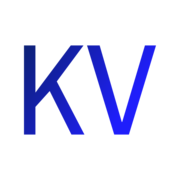
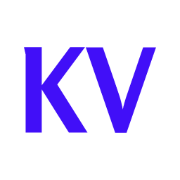
many minor changes
* new KV logo
* navbar texts change

Changed region(s): [[0.1111, 0.25, 0.8889, 0.75]]

diff --git a/src/components/Footer.js b/src/components/Footer.js
@@ -13,7 +13,7 @@ const Footer = class extends React.Component {
         <div className="content has-text-centered">
           <img
             src={logo}
-            alt="Kaldi"
+            alt="KV logo"
             style={{ width: "14em", height: "10em" }}
           />
         </div>
@@ -30,7 +30,7 @@ const Footer = class extends React.Component {
                     </li>
                     <li>
                       <Link className="navbar-item" to="/about">
-                        Doctor
+                        About
                       </Link>
                     </li>
                     {/* <li>
@@ -55,8 +55,8 @@ const Footer = class extends React.Component {
                 <section>
                   <ul className="menu-list">
                     <li>
-                      <Link className="navbar-item" to="/specialities">
-                        Specialities
+                      <Link className="navbar-item" to="/skills">
+                        Skills
                       </Link>
                     </li>
                     <li>

diff --git a/src/components/Navbar.js b/src/components/Navbar.js
@@ -42,7 +42,7 @@ const Navbar = class extends React.Component {
         <div className="container">
           <div className="navbar-brand">
             <Link to="/" className="navbar-item" title="Logo">
-              <img src={logo} alt="KV" style={{ width: "88px" }} />
+              <img src={logo} alt="KV logo" style={{ width: "88px" }} />
             </Link>
             {/* Hamburger menu */}
             <div
@@ -61,10 +61,10 @@ const Navbar = class extends React.Component {
           >
             <div className="navbar-start has-text-centered">
               <Link className="navbar-item" to="/about">
-                Doctor
+                About
               </Link>
-              <Link className="navbar-item" to="/specialities">
-                Specialities
+              <Link className="navbar-item" to="/skills">
+                Skills
               </Link>
               {/* <Link className="navbar-item" to="/products">
                 Products

diff --git a/src/components/HospitalsRoll.tsx b/src/components/HospitalsRoll.tsx
@@ -40,13 +40,13 @@ function HospitalsRoll() {
             <div className={`blog-list-item tile is-child box notification`}>
               <img
                 src={"/img/business-black-18dp.svg"}
-                alt="KV"
+                alt={`hospital name: ${title}`}
                 style={{ width: "18px" }}
               />
               <p className="has-text-weight-bold">{title}</p>
               <img
                 src={"/img/place-black-18dp.svg"}
-                alt="KV"
+                alt={`address: ${address}`}
                 style={{ width: "18px" }}
               />
               <p>{address}</p>

diff --git a/src/templates/index-page.js b/src/templates/index-page.js
@@ -103,9 +103,7 @@ export const IndexPageTemplate = ({
                   </div>
                 </div> */}
                 <div className="column is-12">
-                  <h3 className="has-text-weight-semibold is-size-2">
-                    Our specialities
-                  </h3>
+                  <h3 className="has-text-weight-semibold is-size-2">Skills</h3>
                   <SpecialitiesRoll />
                   {/* <div className="column is-12 has-text-centered">
                     <Link className="btn" to="/specialities">

diff --git a/src/templates/skill.js b/src/templates/skill.js
@@ -64,7 +64,7 @@ const BlogPost = ({ data }) => {
         contentComponent={HTMLContent}
         description={post.frontmatter.description}
         helmet={
-          <Helmet titleTemplate="%s | Speciality">
+          <Helmet titleTemplate="%s | Skill">
             <title>{`${post.frontmatter.title}`}</title>
             <meta
               name="description"

diff --git a/src/components/SpecialitiesRoll.tsx b/src/components/SpecialitiesRoll.tsx
@@ -86,7 +86,7 @@ export default () => (
       query SpecialitiesRollQuery {
         allMarkdownRemark(
           sort: { order: ASC, fields: [frontmatter___order] }
-          filter: { frontmatter: { templateKey: { eq: "speciality" } } }
+          filter: { frontmatter: { templateKey: { eq: "skill" } } }
         ) {
           edges {
             node {

diff --git a/src/components/Layout.js b/src/components/Layout.js
@@ -14,7 +14,7 @@ const TemplateWrapper = ({ children }) => {
         <html lang="en" />
         <title>{title}</title>
         <meta name="description" content={description} />
-
+        <meta name="image" content={`${withPrefix("/")}img/og-image.png`} />
         <link
           rel="apple-touch-icon"
           sizes="180x180"

diff --git a/src/pages/skills/index.js b/src/pages/skills/index.js
@@ -24,7 +24,7 @@ export default class BlogIndexPage extends React.Component {
               padding: "1rem",
             }}
           >
-            Our Specialities
+            Skills
           </h1>
         </div>
         <section className="section">

diff --git a/src/pages/skills/general.md b/src/pages/skills/general.md
@@ -1,5 +1,5 @@
 ---
-templateKey: speciality
+templateKey: skill
 title: General
 order: 1
 featuredimage: /img/general_fracture.jpg
@@ -8,6 +8,7 @@ conditions:
   - Common Fractures
   - Limb Reconstruction
 ---
+
 ![general fracture](/img/general_fracture.jpg)
 
 # Common Fractures
@@ -18,9 +19,9 @@ Morbi eu tristique eros. Morbi nec convallis turpis, at aliquam sapien. Proin si
 
 # Limb Reconstruction
 
-* list item 1
-* list item 2
-* list item 3
+- list item 1
+- list item 2
+- list item 3
 
 Phasellus sodales ante vel purus congue interdum. Mauris finibus sit amet orci in faucibus. Curabitur tincidunt est sem, et varius diam maximus sit amet. Nullam bibendum libero quis rutrum consectetur. Phasellus dui elit, consectetur in euismod dignissim, condimentum hendrerit lectus. Pellentesque cursus mi in nulla pharetra, sit amet bibendum felis hendrerit. Vestibulum accumsan metus ac accumsan rhoncus. Aliquam eleifend viverra nulla, vel pharetra sapien posuere eu. Proin congue nibh eget commodo varius. Pellentesque a urna ut leo varius auctor eu congue metus.
 

diff --git a/src/pages/skills/knee.md b/src/pages/skills/knee.md
@@ -1,5 +1,5 @@
 ---
-templateKey: speciality
+templateKey: skill
 title: Knee
 order: 2
 featuredimage: /img/knee_pain.jpg
